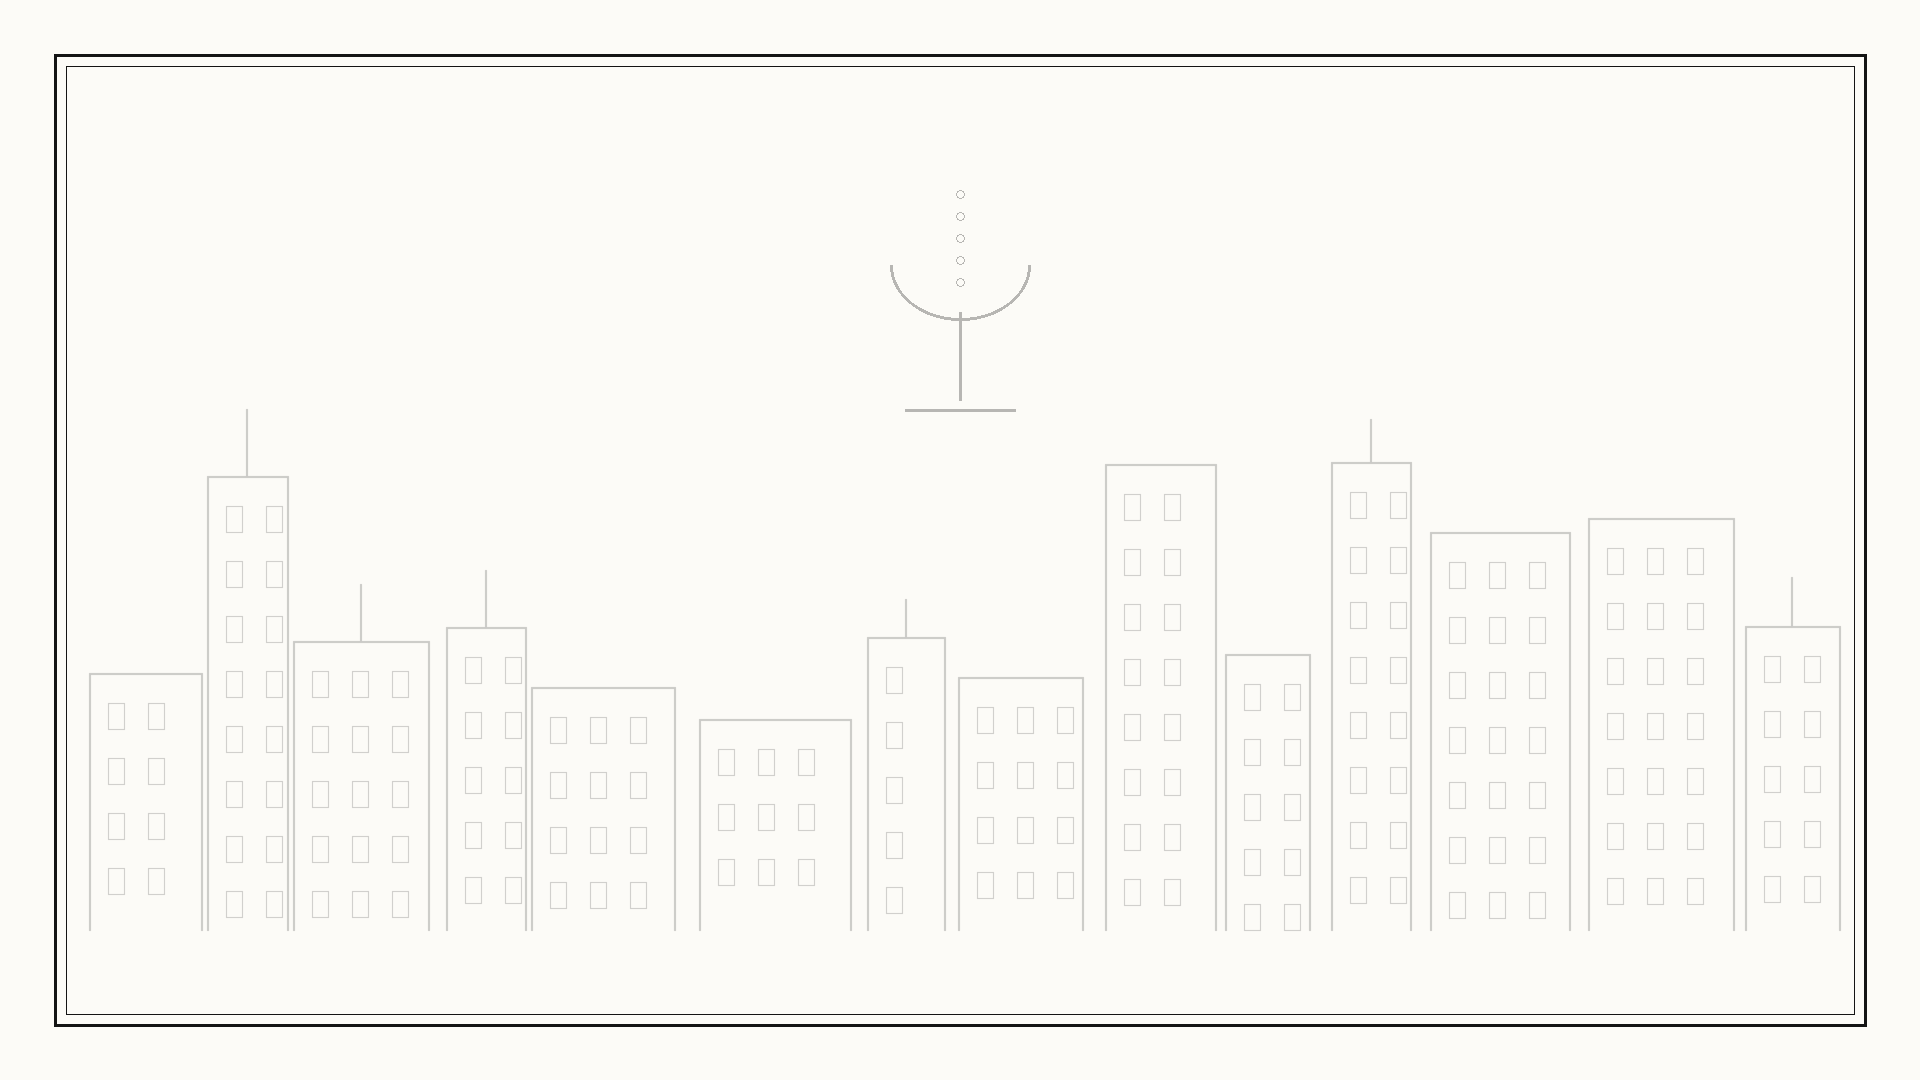
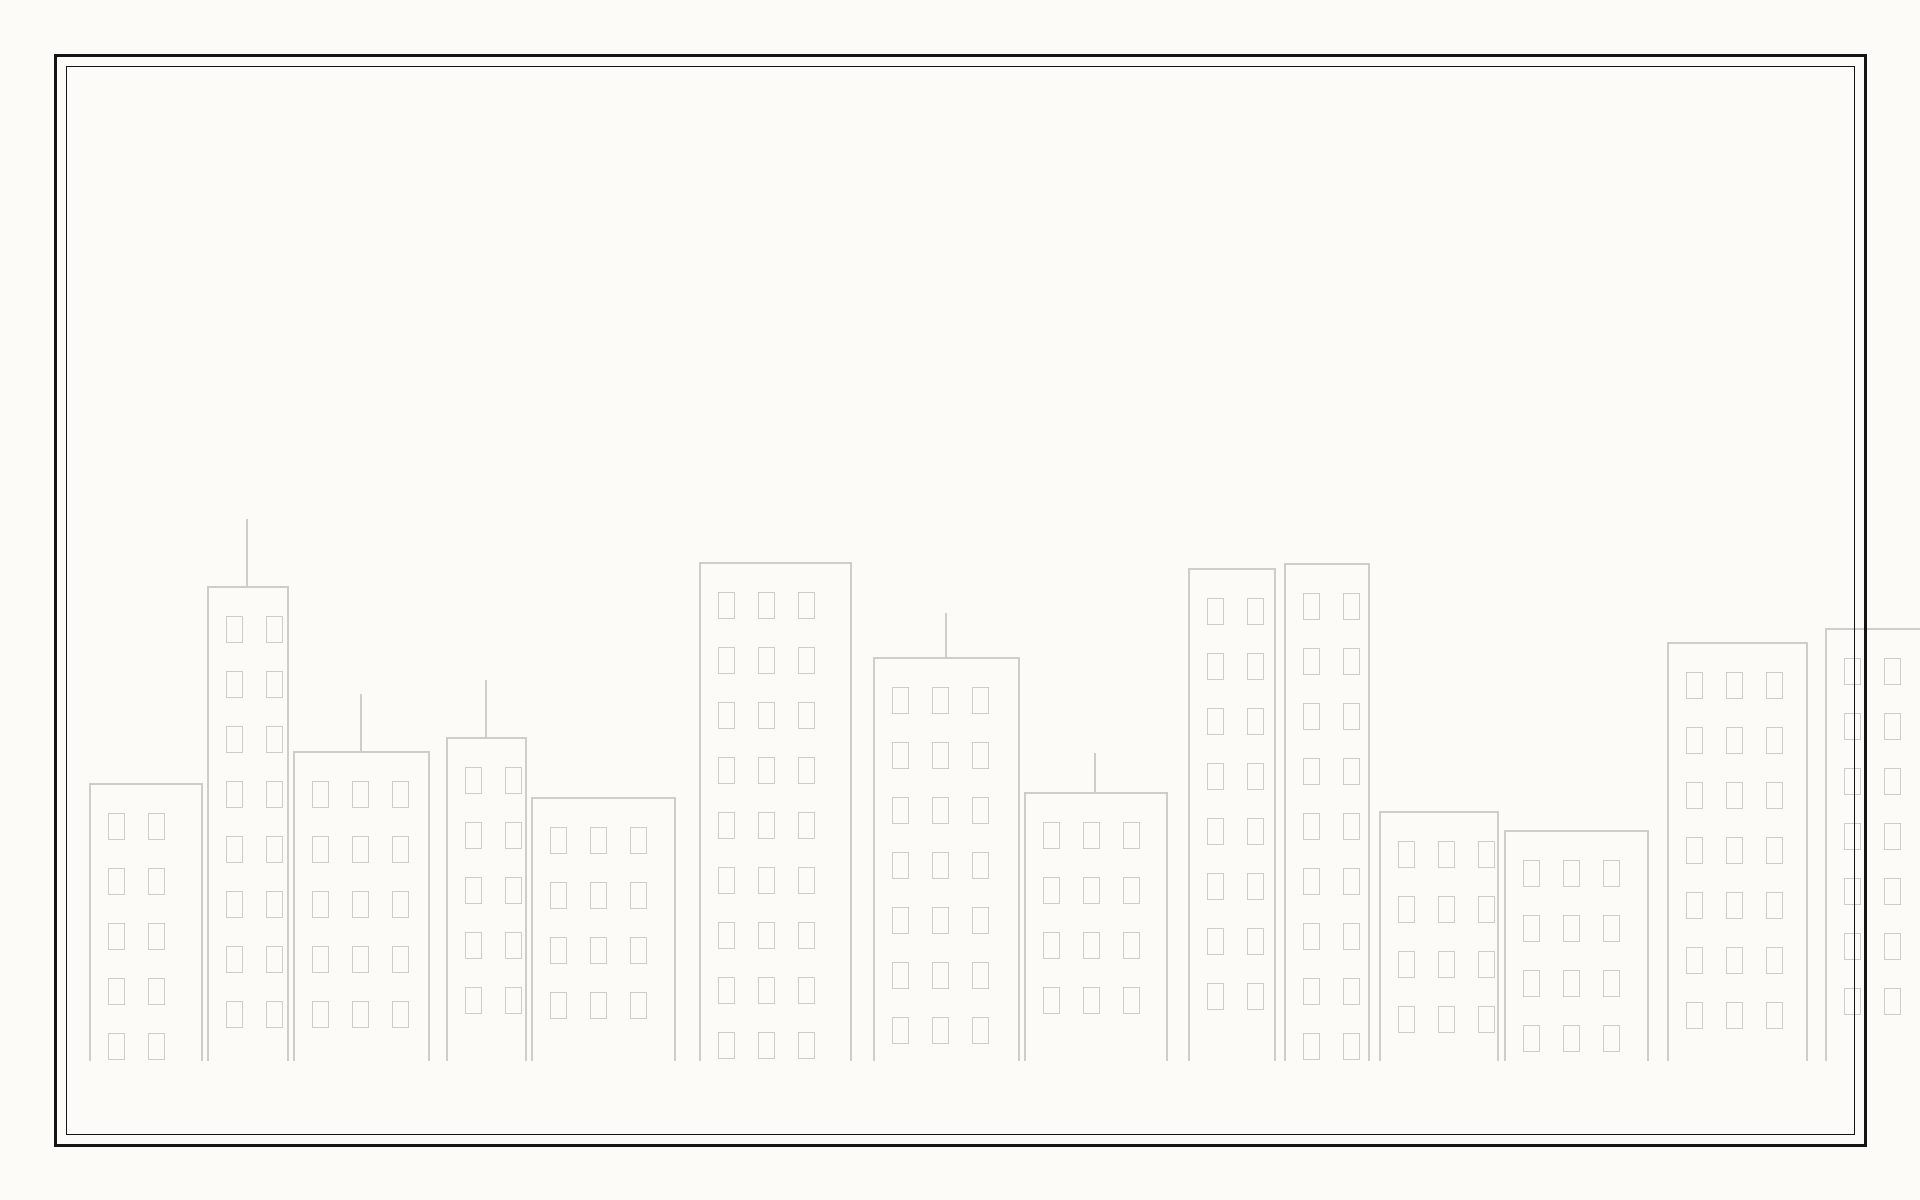
Fix chapter buttons (all get action, sensitive gates lock); 16:10 canvas (1920x1200) to remove letterbox; regen full-screen assets; drop middot in kicker; add title-screen art prompt

diff --git a/docs/art-prompt-titlescreen.md b/docs/art-prompt-titlescreen.md
@@ -1,0 +1,50 @@
+# Title Screen Background — prompt
+
+The menu background is `game/images/menu_bg.png`. Replace the generated
+placeholder with your own art. Target size **1920x1200 (16:10)** so it fills the
+window with no black bars. Generate at 3840x2400 and downscale if the tool allows.
+
+## Requirements
+
+- Leave the **top ~30%** calm and light: that is where the "Nepo The Game" title,
+  the tagline, and the "BUSINESS AND MANAGEMENT IN A GLOBAL CONTEXT" line sit.
+- Leave the **vertical center strip** relatively open too: the four chapter buttons
+  and the Quit button stack there. Detail can live at the sides and the bottom.
+- Same ink-on-paper design code as the rest of the game.
+
+## STYLE PREFIX
+
+> Hand-drawn black ink line illustration on warm off-white paper (#fcfbf7),
+> editorial New Yorker cartoon style, single-weight pen line with slight hand wobble,
+> sparse hatching for shadows only, no grayscale fills, no color, elegant satirical
+> high-society atmosphere, wide 16:10 composition, full-bleed to the edges, no frame.
+
+## NEGATIVE
+
+> color, grayscale shading, gradients, screentone, photorealism, 3D render, text,
+> lettering, watermark, signature, busy center, heavy dark areas at the top
+
+## The prompt (title screen)
+
+> A satirical establishing view of the world of high finance and old money, drawn in
+> fine black ink on warm paper. A grand glass skyscraper rises on the right, its lit
+> windows suggested by simple rectangles. To the left, the ornate facade of a private
+> members club with columns and a striped awning. Between them, a sliver of city
+> street with a lone convertible parked carelessly across two spaces, and a doorman in
+> a top hat. Above the skyline, faint and decorative, a single champagne coupe and a
+> few rising bubbles. The upper third of the image is open sky with light cloud
+> hatching, kept airy and empty for the title. The whole scene is elegant, a little
+> absurd, and quietly expensive. Wide 16:10 cinematic framing.
+
+## Alternative (more minimal, safer for text overlay)
+
+> A quiet ink vignette on warm paper: a single tall skyscraper silhouette in outline
+> at the lower right, a chandelier hanging from the top edge at the left, and a faint
+> champagne coupe motif centered low. Vast empty paper space in the upper and central
+> area for the title and menu. Minimal, elegant, editorial ink line art, 16:10.
+
+## After generating
+
+Save as `game/images/menu_bg.png` (1920x1200). Reload — the menu picks it up
+automatically. If the title or buttons are hard to read over your art, tell me and
+I will add a soft paper scrim behind them.
